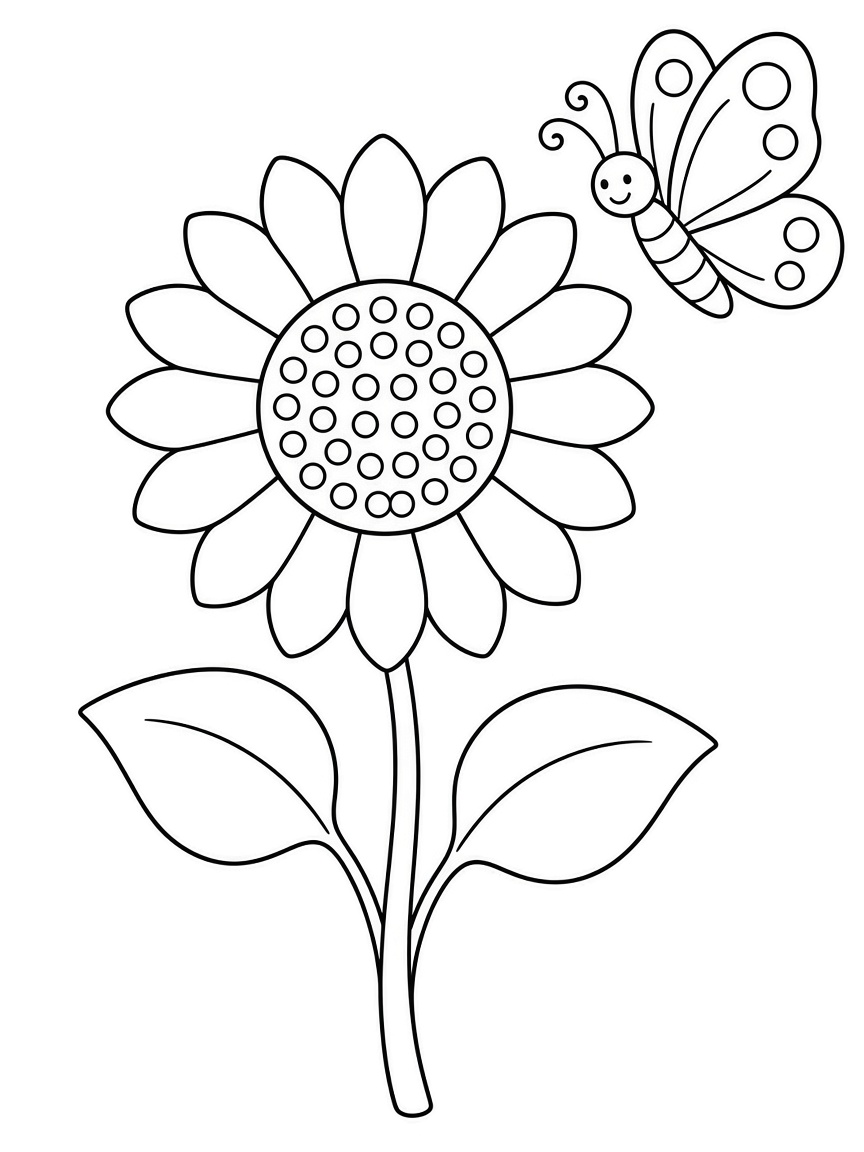
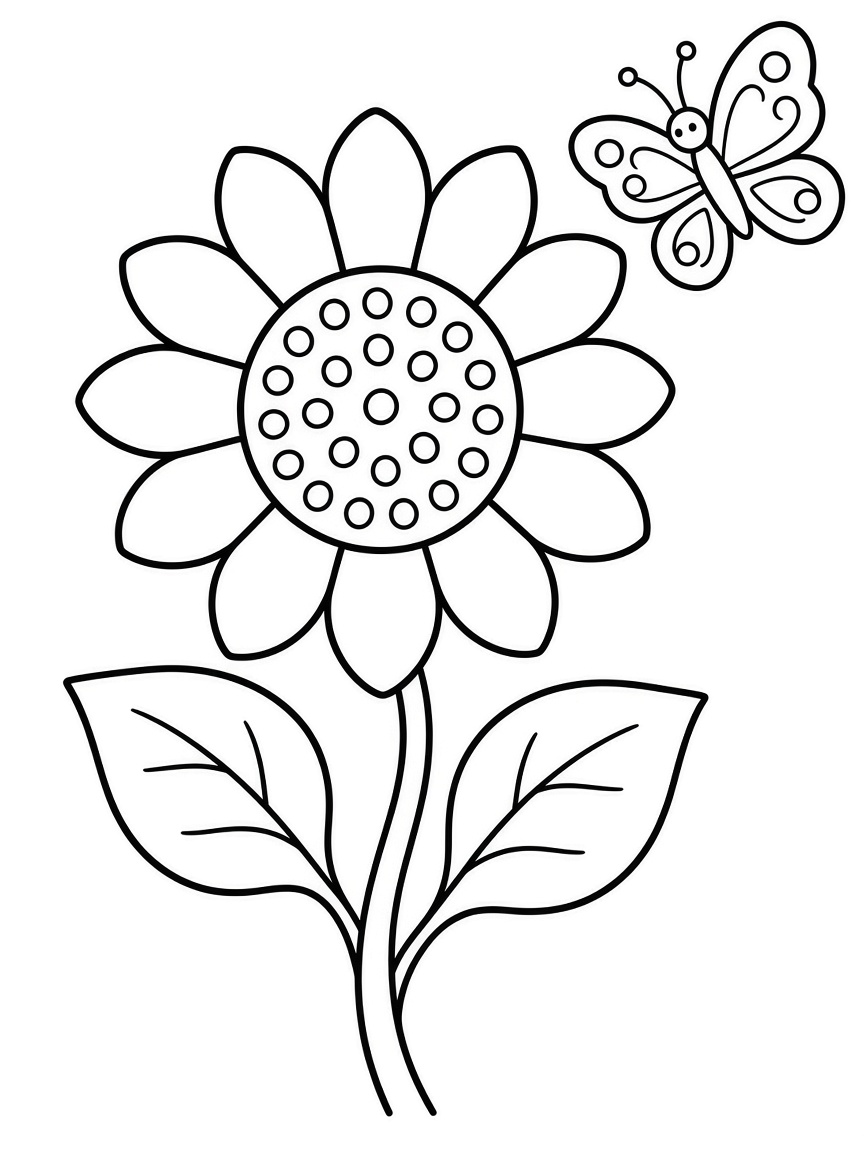
Improve coloring pages with Grok Imagine art
Replace temporary stand-in PNGs in public/coloring/ with real
grok-imagine-image-2.0 black-and-white coloring-book line art
and mark generated.json as non-temporary.

Changed region(s): [[0.0625, 0.0, 1.0, 0.9688]]

diff --git a/public/coloring/README.md b/public/coloring/README.md
@@ -4,7 +4,7 @@ Twelve portrait pages served from this folder so the tool stays fast (no Imagine
 
 | File | Status |
 | --- | --- |
-| `*.png` | Temporary stand-in line art until `npm run generate:coloring` is run with `XAI_API_KEY` |
-| `generated.json` | Stamp written by the generate script |
+| `*.png` | Grok Imagine (`grok-imagine-image-2.0`) black-and-white coloring outlines |
+| `generated.json` | Stamp written by the generate script (`temporary: false` when live) |
 
-Prompts live in `lib/coloring-pages.ts`. The optional **Generate new page** button calls `/api/coloring/generate` (lightly rate-limited).
+Prompts live in `lib/coloring-pages.ts` and `scripts/generate-coloring.mjs`. Re-run with `XAI_API_KEY` via `npm run generate:coloring`. The optional **Generate new page** button calls `/api/coloring/generate` (lightly rate-limited).
